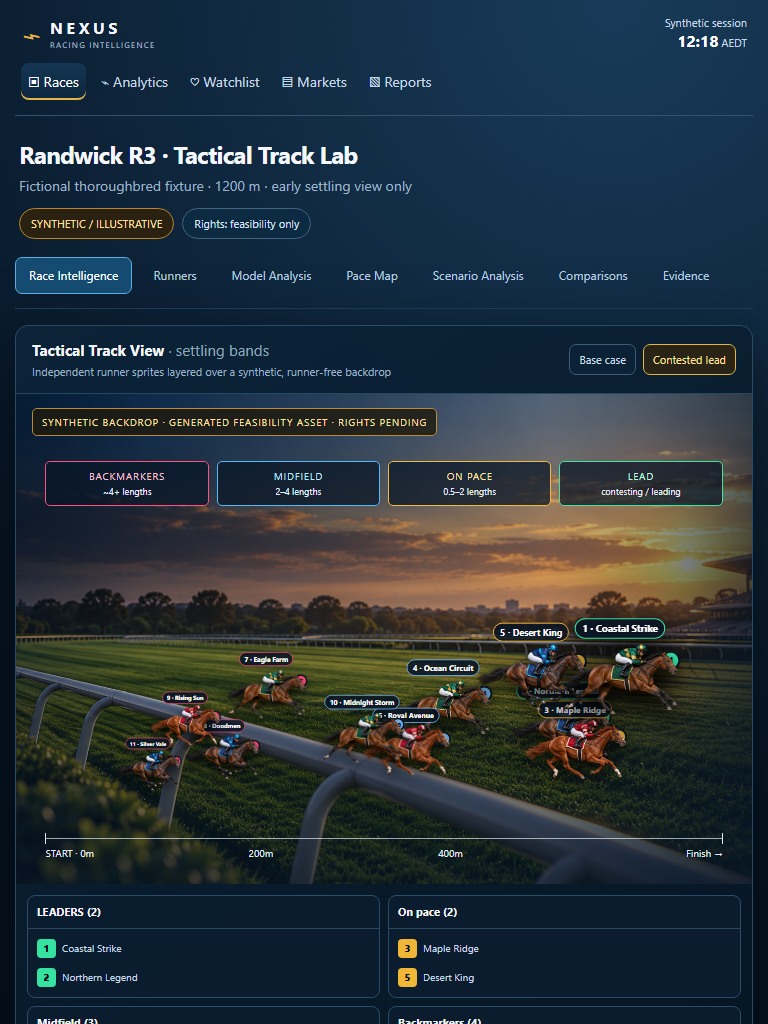
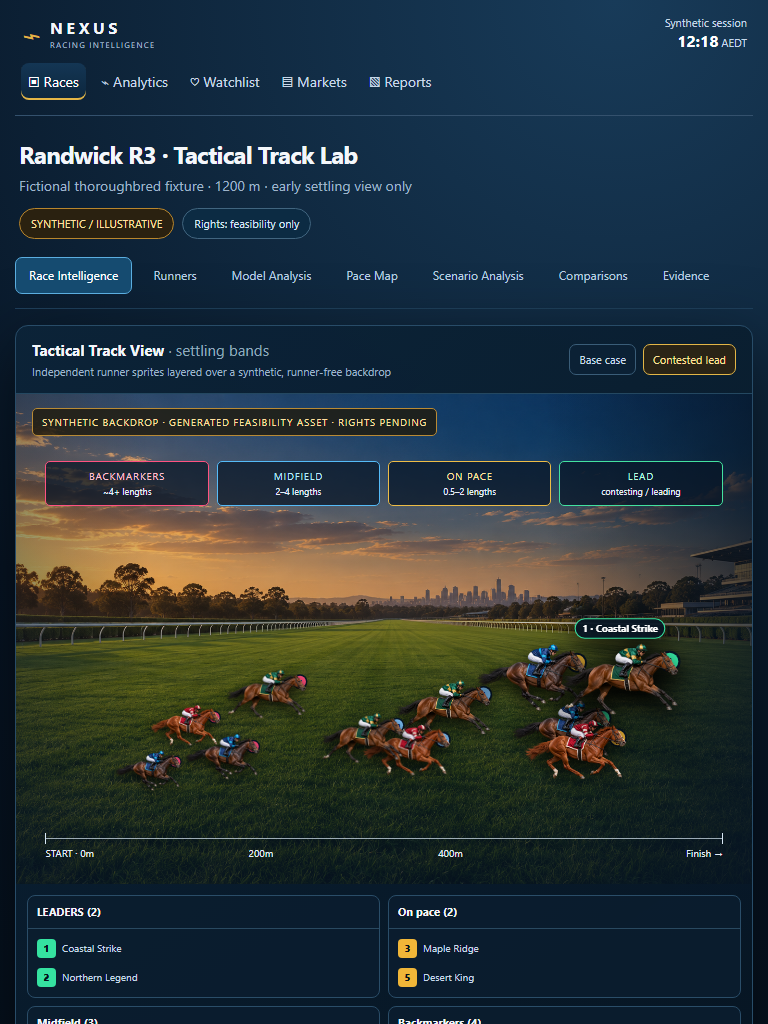
feat: move Tactical Track proof to straightaway

Changed region(s): [[0.0, 0.375, 1.0, 0.875], [0.9062, 0.8438, 0.9375, 0.875], [0.8438, 0.7188, 0.875, 0.75]]

diff --git a/docs/design-rescue/TACTICAL_TRACK_LAB_REVIEW.md b/docs/design-rescue/TACTICAL_TRACK_LAB_REVIEW.md
@@ -17,7 +17,9 @@ The lab is a standalone public HTML entry, not a production route. It uses one s
 
 The runner field was iterated after the first review: the geometric SVG treatment was removed, photorealistic synthetic horse-and-jockey layers were added, and dense name pills were reduced to a selected-runner label plus numbered identity markers. Full runner names remain in the linked groups and detail panel so the track remains readable at mobile width.
 
[1 lines of base64/hex data omitted]
+The backdrop was then iterated again from a bend to a straightaway. Parallel rails now sit behind the field, leaving the compositing zone open so runners do not visually intersect the fence.
+
[1 lines of base64/hex data omitted]
 
 ## Browser evidence
 
@@ -25,12 +27,12 @@ All screenshots are real Chromium captures at DPR 1. Mobile captures scroll the 
 
 | Scenario | Viewport | Screenshot | SHA-256 |
 | --- | ---: | --- | --- |
[12 lines of base64/hex data omitted]
 
 ## Validation
 
